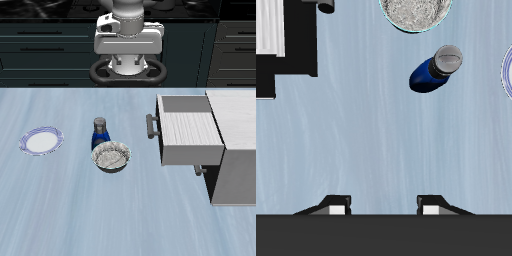
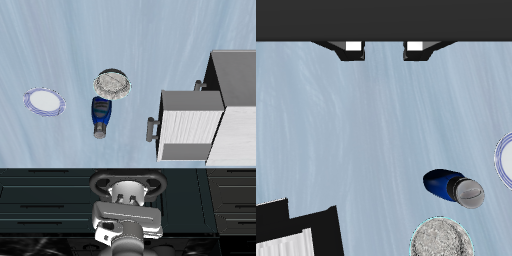
fix eval bugs

diff --git a/lerobot/scripts/eval.py b/lerobot/scripts/eval.py
@@ -168,6 +168,8 @@ def rollout(
         with torch.inference_mode():
             actions, predicted_images = policy.select_action(observation)
         observation_image = cv2.hconcat([raw_observation['pixels']['agentview_image'], raw_observation['pixels']['robot0_eye_in_hand_image']])
+        cv2.imwrite('debug.png', observation_image)
+        import ipdb;ipdb.set_trace()
         if predicted_images is not None:
             observation_predicted_image = cv2.vconcat([observation_image, np.asarray(predicted_images[0])])
         else:
@@ -200,8 +202,8 @@ def rollout(
 
         step += 1
         raw_observation['pixels'] = {
-            "agentview_image": new_observation['agentview_image'],
-            "robot0_eye_in_hand_image": new_observation['robot0_eye_in_hand_image'],
+                "agentview_image": new_observation['agentview_image'][::-1, :, :].copy(),
+                "robot0_eye_in_hand_image": new_observation['robot0_eye_in_hand_image'][::-1, :, :].copy(),
         }
     # Track the final observation.
     if return_observations:

diff --git a/lerobot/common/policies/pi0/modeling_pi0.py b/lerobot/common/policies/pi0/modeling_pi0.py
@@ -1200,9 +1200,9 @@ class PI0FlowMatching(nn.Module):
         )
         action_pred = self.act_out_proj(unpacked_latent[1:-1])[0]
         action_pred = action_pred.view(self.bagel_model.action_horizon, -1)
-        grasp_threshold = 0.6 ## TODO: set grasping threshold
-        action_pred[action_pred[:, -1] > 0.6] = 1
-        action_pred[action_pred[:, -1] <= 0.6] = 0
+        grasp_threshold = 0. ## TODO: set grasping threshold
+        action_pred[action_pred[:, -1] > grasp_threshold][:, -1] = 1
+        action_pred[action_pred[:, -1] <= grasp_threshold][:, -1] = 0
         return action_pred, predict_images
 
     def denoise_step(

diff --git a/lerobot/common/datasets/lerobot_dataset.py b/lerobot/common/datasets/lerobot_dataset.py
@@ -728,6 +728,7 @@ class LeRobotDataset(torch.utils.data.Dataset):
         if self.delta_indices is not None:
             query_indices, padding = self._get_query_indices(idx, ep_idx)
             query_result = self._query_hf_dataset(query_indices)
+            query_result['action'] *= torch.logical_not(padding['action_is_pad'])[:, None]
             item = {**item, **padding}
             for key, val in query_result.items():
                 item[key] = val
